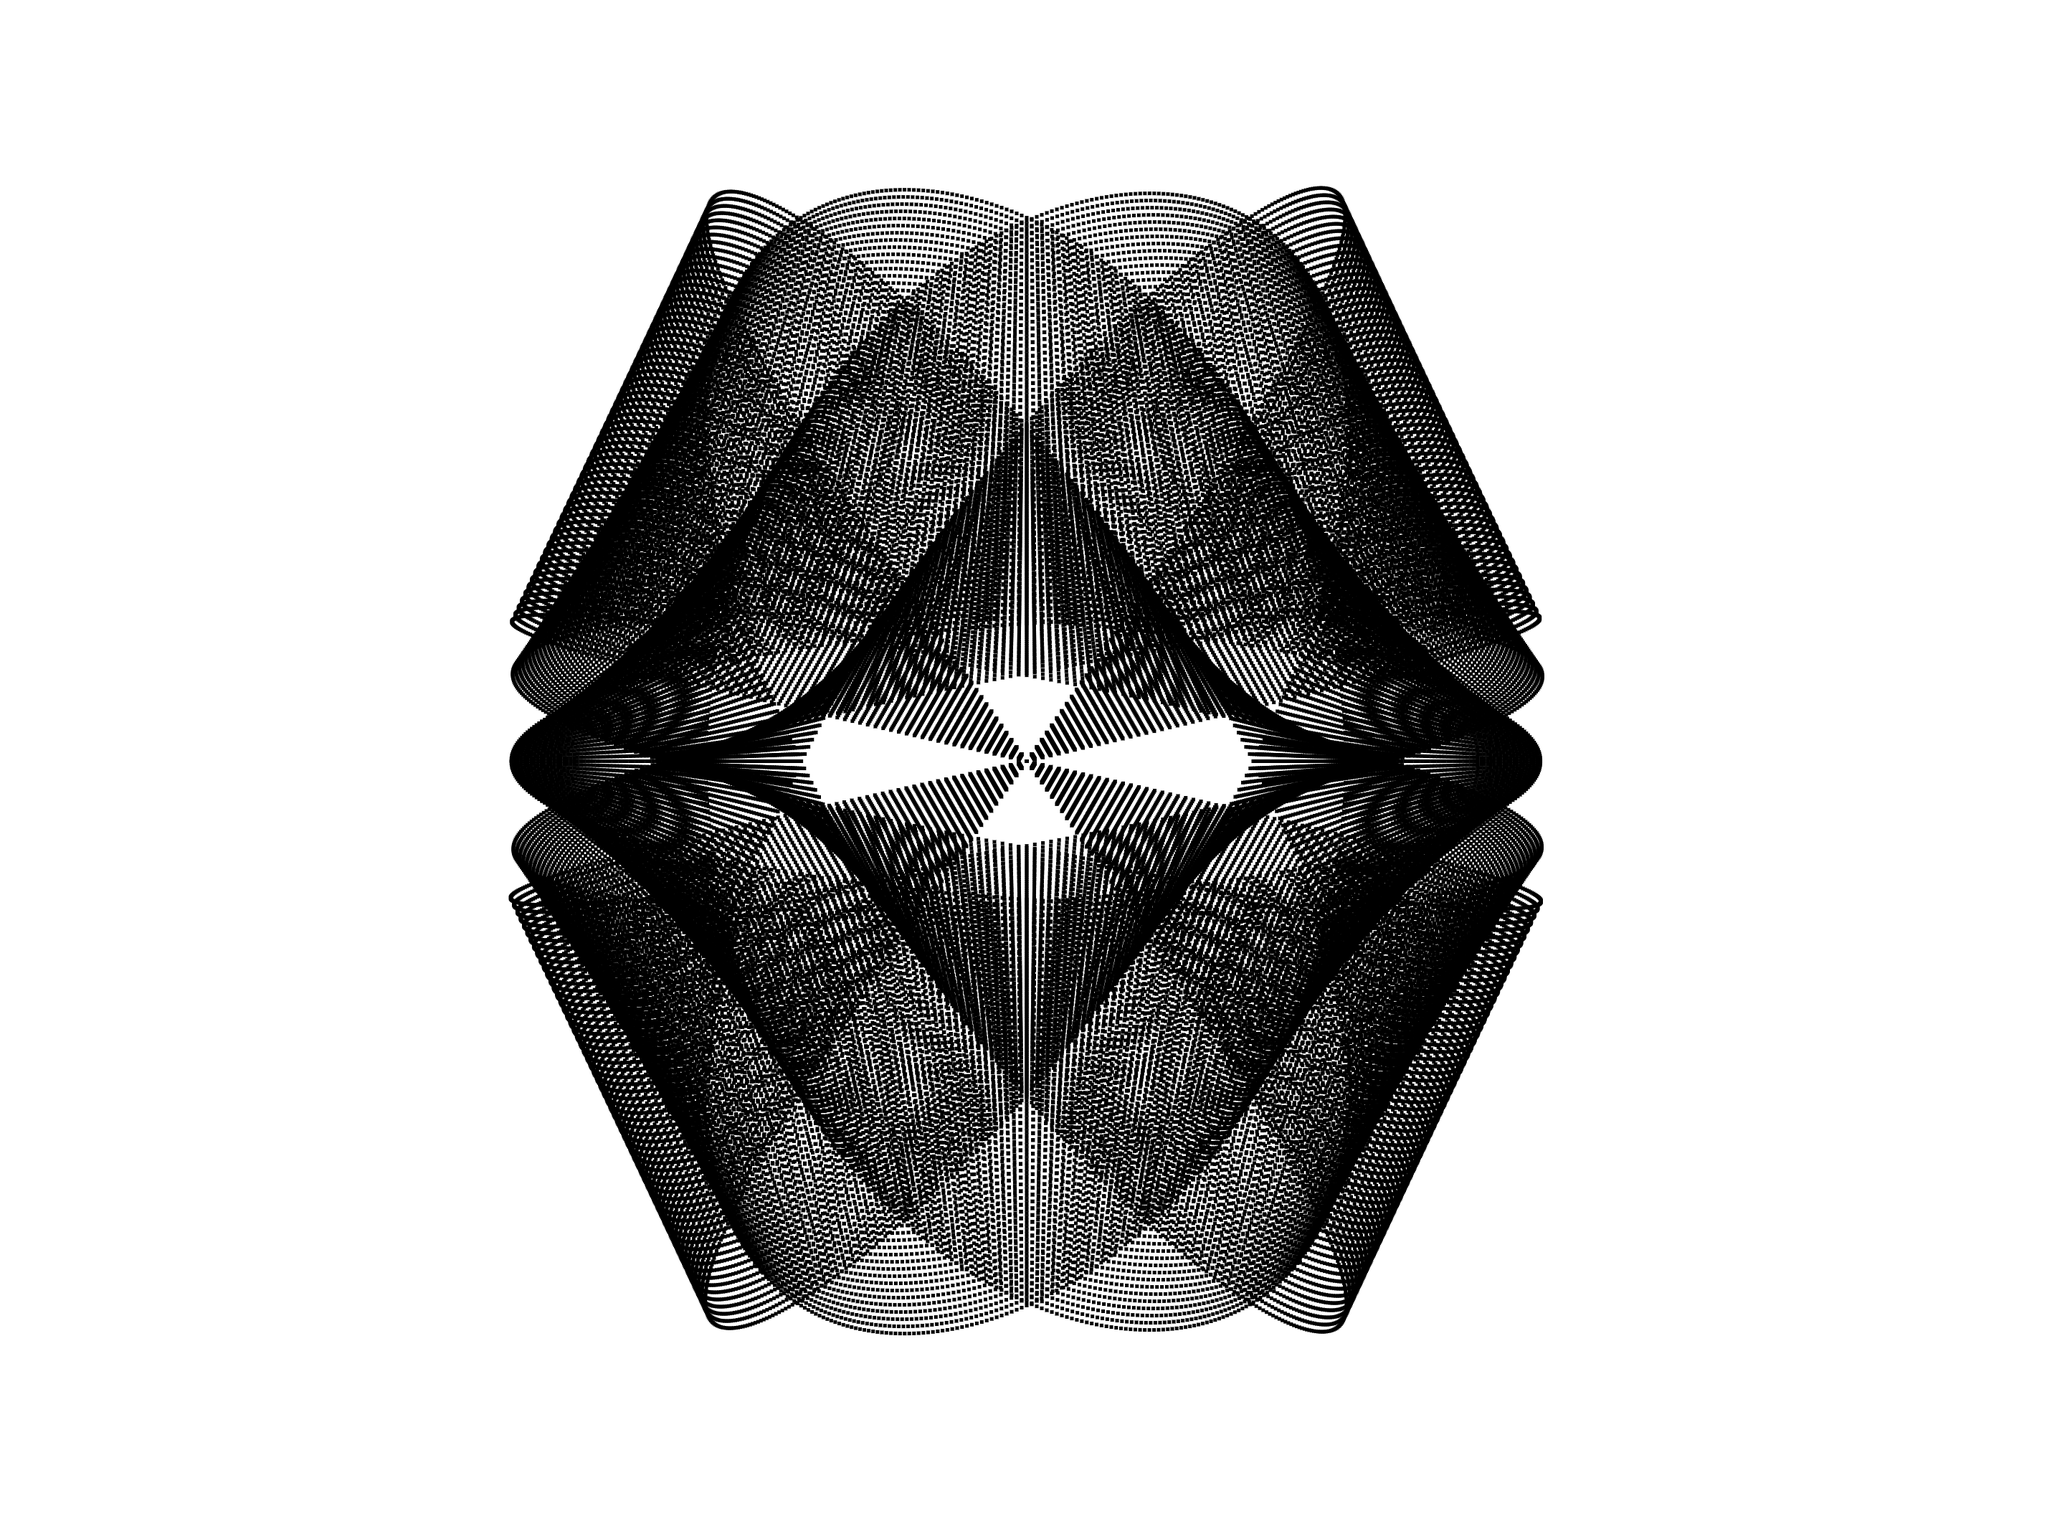
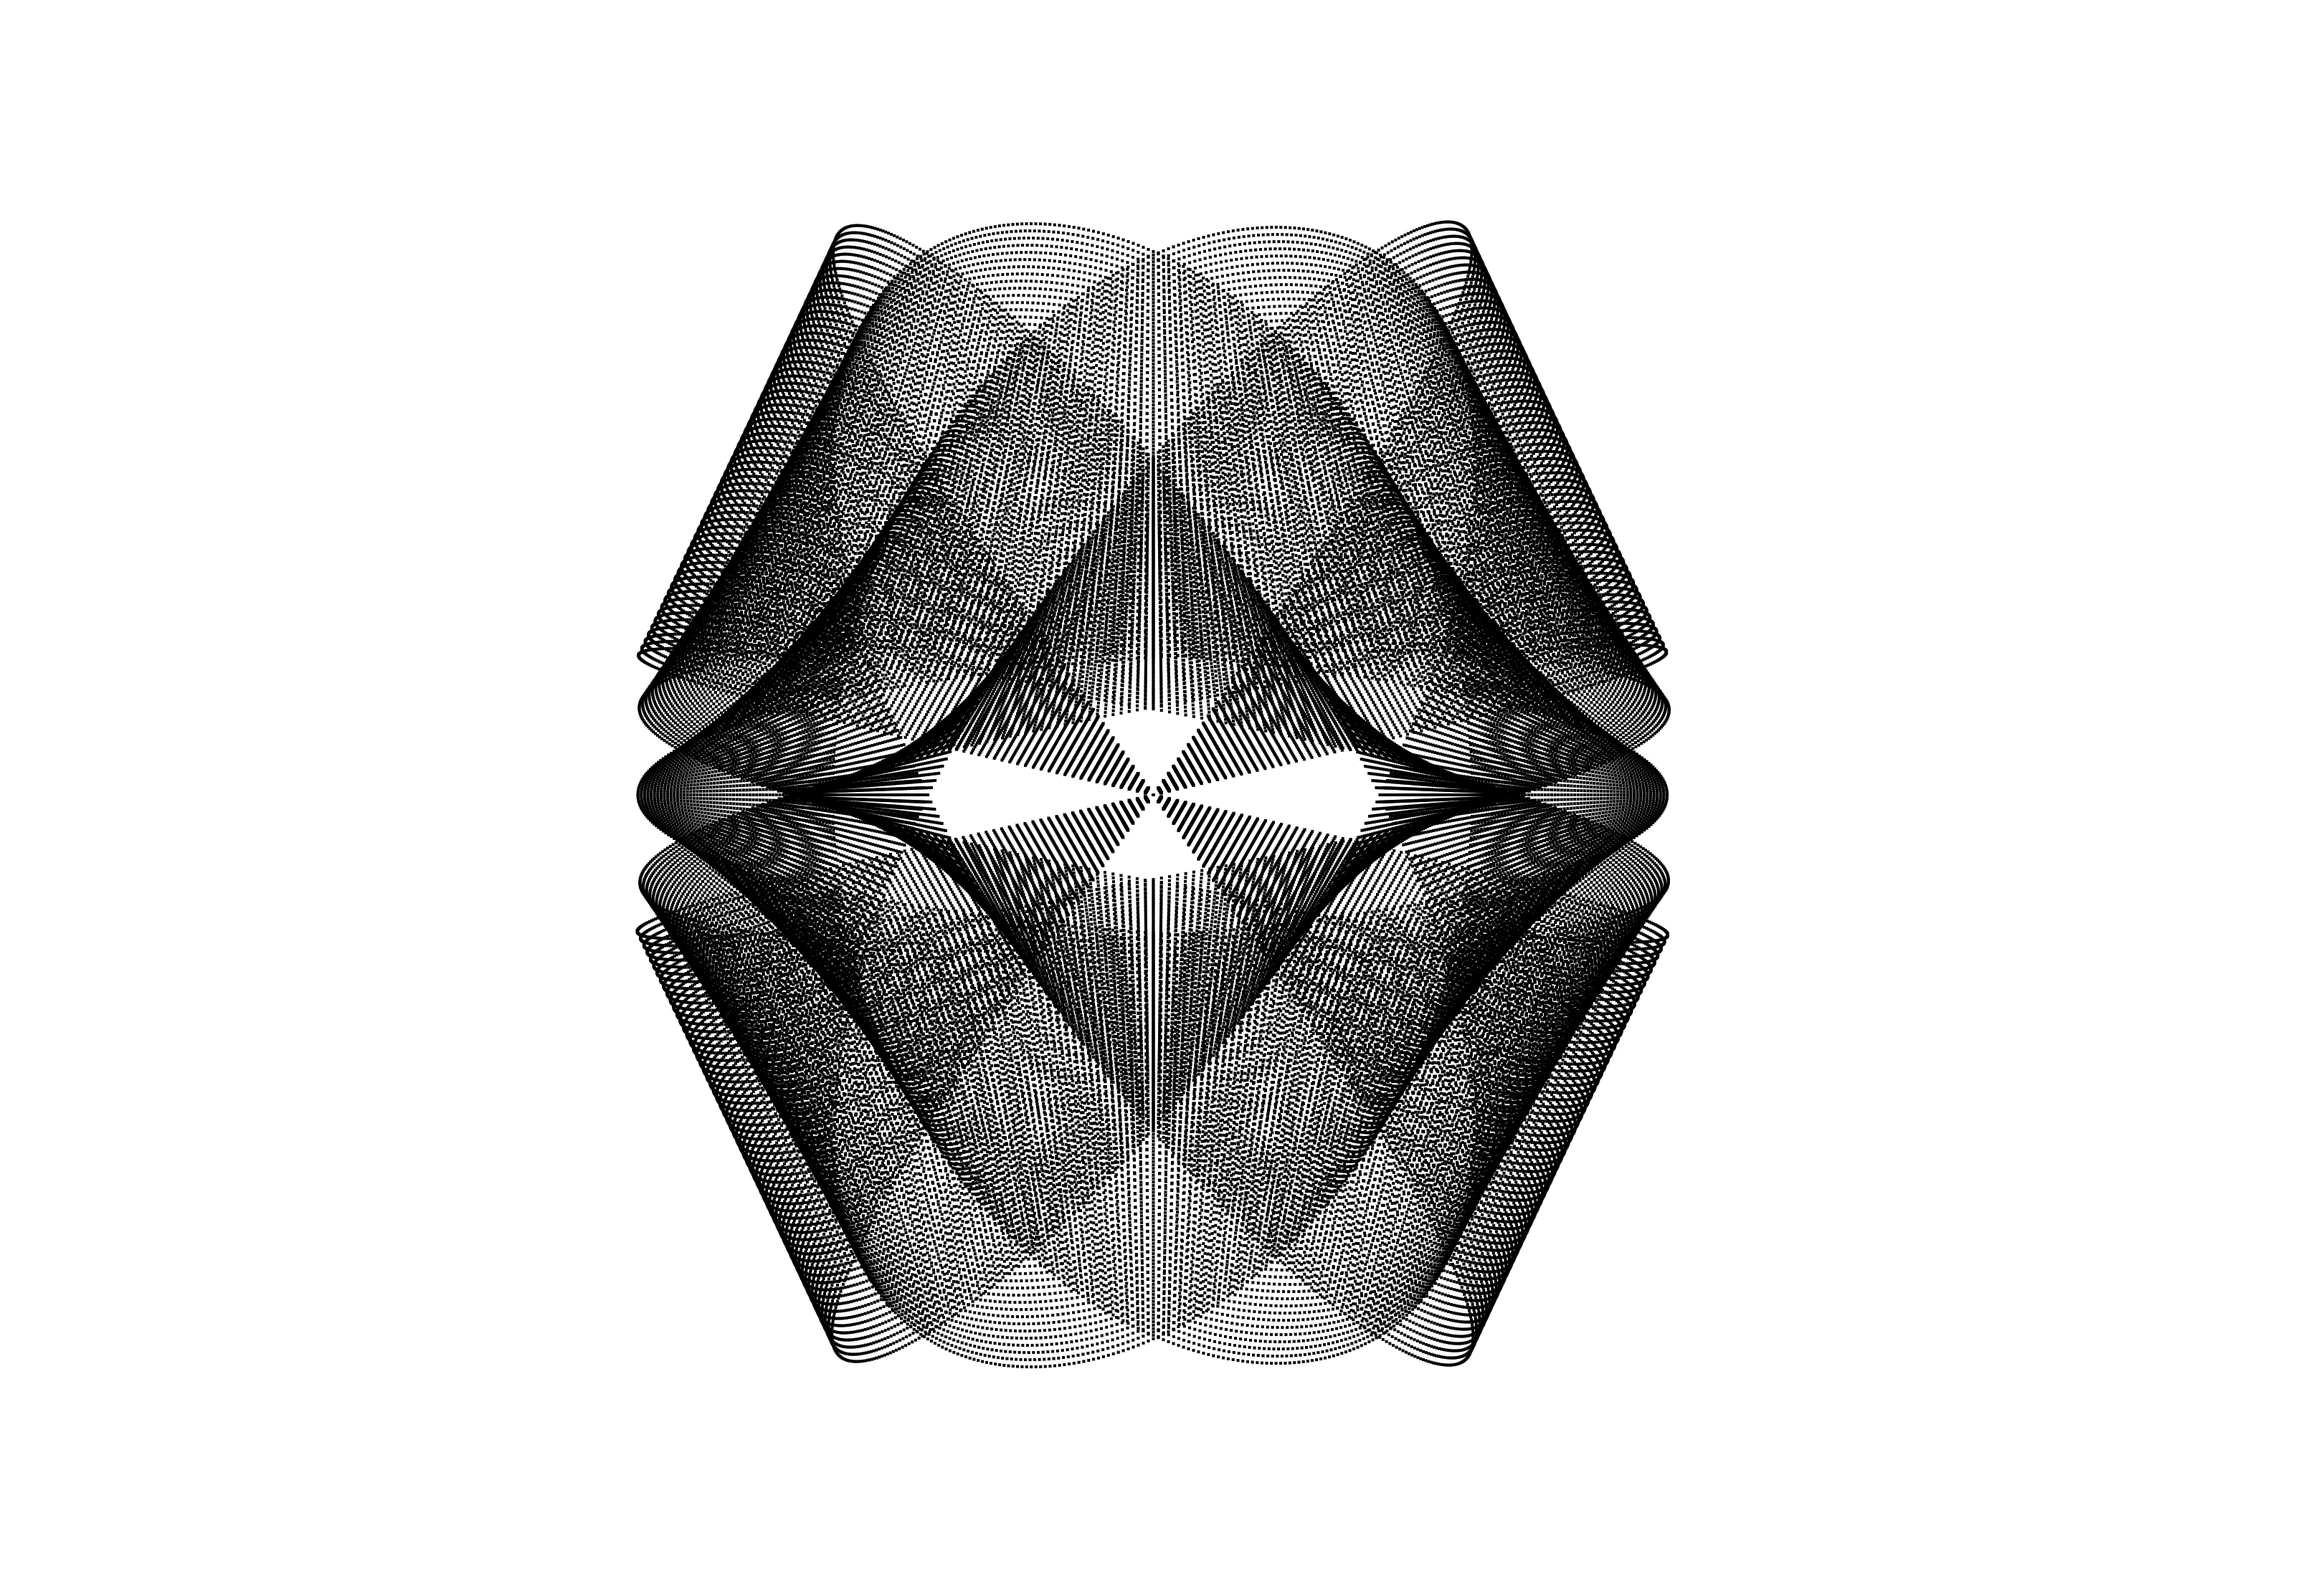
Code improvements, better local JSON support
Various small code improvements. Added support for importing JSON locally by manually pasting in JSON text. Added a few more saved configurations.

Changed region(s): [[0.2488, 0.1245, 0.7774, 0.9024]]

diff --git a/code/lissajous.js b/code/lissajous.js
@@ -28,34 +28,37 @@ window.onload = () => {
     let lastMilliDrawTime = 0;
     let currentMilliTime = 0;
     let millisElapsed = 0;
-    const MILLI_TIME_BETWEEN_POINTS = 0;
+    const MILLI_TIME_BETWEEN_POINTS = 0; // slow down how long we should wait between each point being drawn.
 
     let showAxes = true;
     let showTrackingAnimations = false;
 
-    let exportPngAndConfigJson = false;
+    let exportPngAndConfigJson = true;
     let exported = false;
 
-    let importConfigJson = false;
+    let useJsonTextConfig = true; // if true, use JSON text version of configuration instead of object version. makes it easier to load from exported files locally just by copying and pasting their contents.
+
+    let importConfigJson = false; // if true, import configuration from a saved JSON file. this is untested but should only work if this is being run from a web server due to http security limitations with most browsers.
     let configJsonFileName = "./configurations/1.json"
 
+    // use this 'configuration' object declaration if 'useJsonTextConfig' and 'importConfigJson' are set to false
     let configuration = {
         equations: {
             x: {
                 period: 200,
-                amplitude: -360,
+                amplitude: 100,
                 phase: 0,
             },
             y: {
-                period: 250,
-                amplitude: 100,
+                period: 201,
+                amplitude: 0,
                 phase: 0,
             }
         },
         automation: {
             x: {
                 amplitude: {
-                    add: .0023,
+                    add: .01,
                     multiply: 1,
                 },
                 period: {
@@ -69,7 +72,7 @@ window.onload = () => {
             },
             y: {
                 amplitude: {
-                    add: .005,
+                    add: .01,
                     multiply: 1,
                 },
                 period: {
@@ -82,14 +85,18 @@ window.onload = () => {
                 }
             }
         },
-        slow: true,
+        slow: false,
         reverse: false,
-        headstart: 115000,
-        end: 120000,
+        headstart: 100000,
+        end: 100000,
         scaleMultiplier: 2,
     };
 
-    if (importConfigJson) {
+    if (useJsonTextConfig) { // use this 'configuration' JSON declaration if 'useJsonTextConfig' is set to true and 'importConfigJson' is set to false
+        configuration = JSON.parse('{"equations":{"x":{"period":200,"amplitude":-360,"phase":0},"y":{"period":250,"amplitude":100,"phase":0}},"automation":{"x":{"amplitude":{"add":0.0023,"multiply":1},"period":{"add":0,"multiply":1},"phase":{"add":0,"multiply":1}},"y":{"amplitude":{"add":0.005,"multiply":1},"period":{"add":0,"multiply":1},"phase":{"add":0,"multiply":1}}},"slow":false,"reverse":false,"headstart":119000,"end":120000,"scaleMultiplier":2}');
+    }
+
+    if (importConfigJson) { // use this 'configuration' declaration to import from a JSON file if 'importConfigJson' is set to true
         configuration = loadJsonFile(configJsonFileName);
     }
 
@@ -191,13 +198,15 @@ window.onload = () => {
                 drawCanvasPixel(ctx, {x: point.x + canvasXOffset, y: point.y + canvasYOffset}, point.color);
                 count += 1;
             }
-            xLine.stroke = 'transparent';
-            yLine.stroke = 'transparent';
-            xPoint.fill = 'transparent';
-            xPoint.stroke = 'transparent';
-            yPoint.fill = 'transparent';
-            yPoint.stroke = 'transparent';
-            trackingDot.fill = 'transparent';
+            if (showTrackingAnimations) {
+                xLine.stroke = 'transparent';
+                yLine.stroke = 'transparent';
+                xPoint.fill = 'transparent';
+                xPoint.stroke = 'transparent';
+                yPoint.fill = 'transparent';
+                yPoint.stroke = 'transparent';
+                trackingDot.fill = 'transparent';
+            }
 
             if (exportPngAndConfigJson && !exported) {
                 exported = true;
@@ -261,6 +270,7 @@ window.onload = () => {
     function exportConfigurationAsJson(configuration) {
         let filename = 'configuration.json';
         let jsonStr = JSON.stringify(configuration);
+        // let jsonStr = JSON.stringify(configuration, undefined, 4); // this version has line breaks and indentation
 
         let element = document.createElement('a');
         element.setAttribute('href', 'data:text/plain;charset=utf-8,' + encodeURIComponent(jsonStr));
